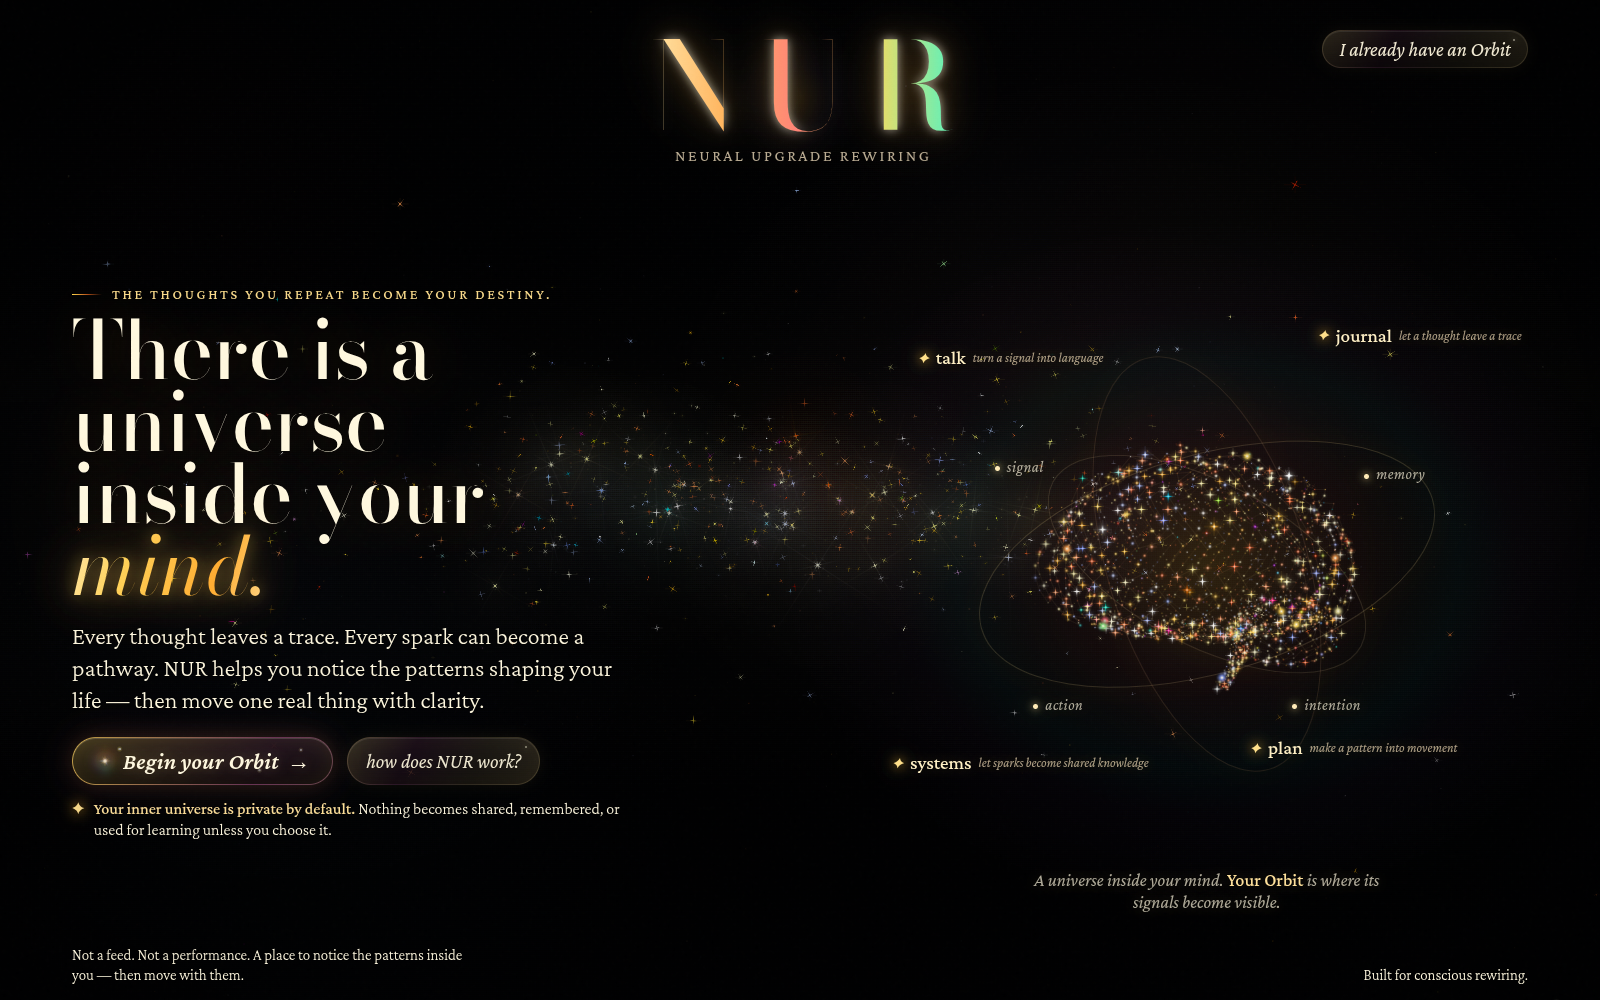
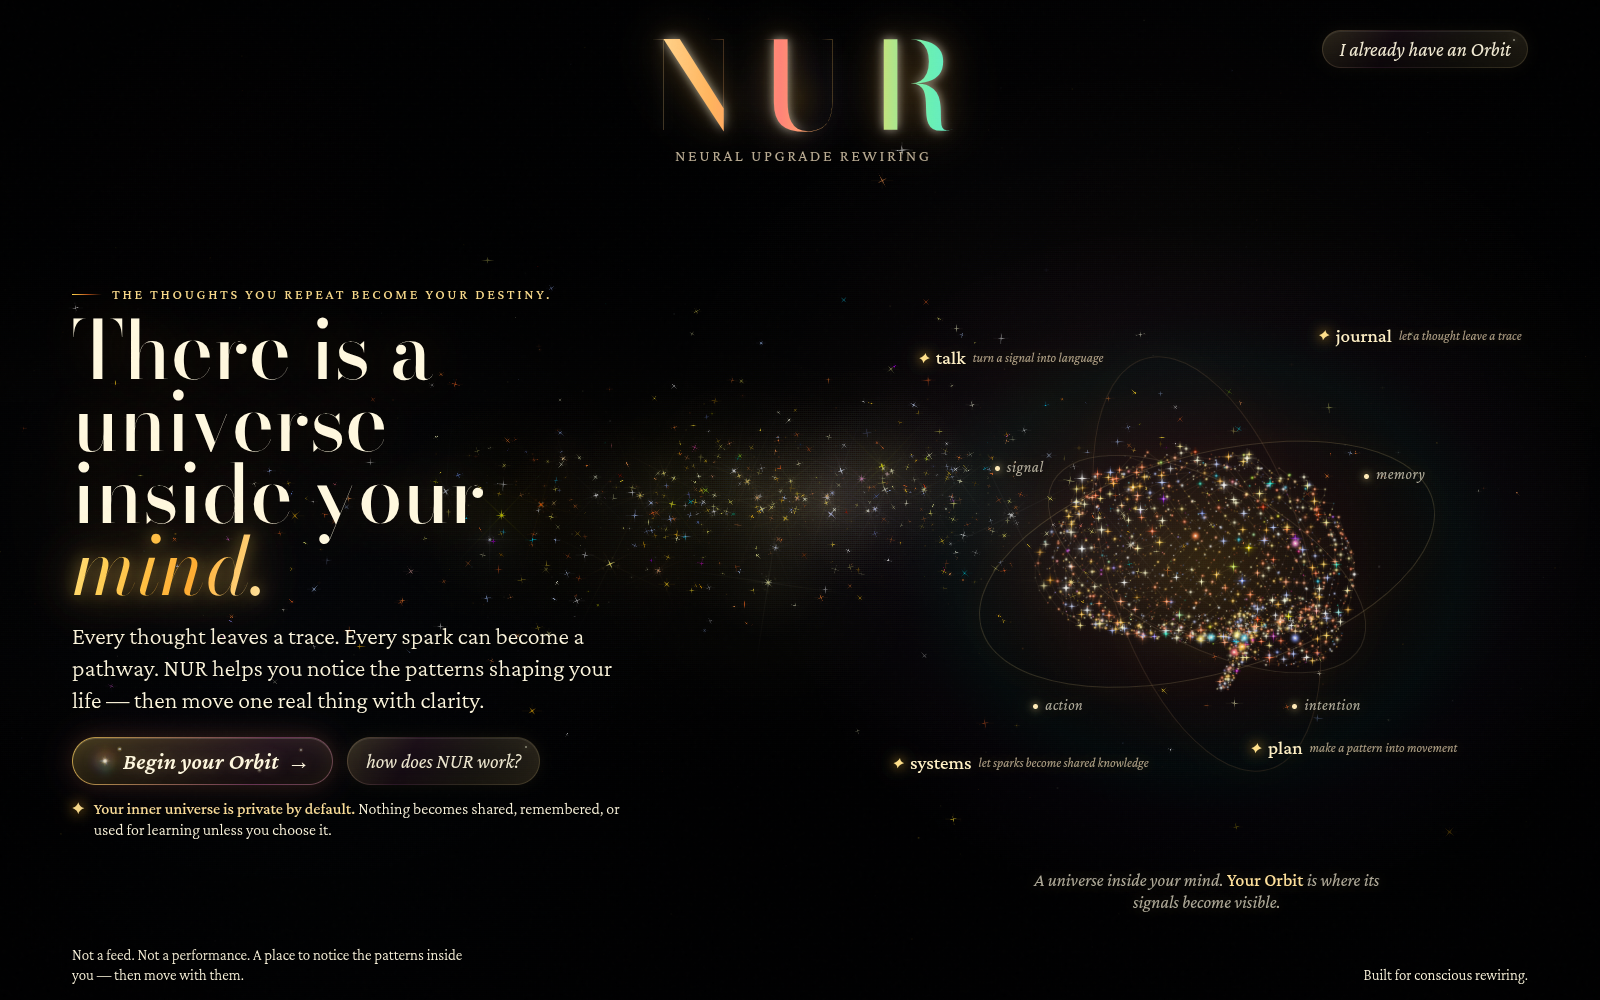
fix(v197): remove the orange wash, make panels transparent, unstack the send star
Three findings, and the first explains why every previous background fix missed.

The universe read warm brown against Entry's black because of two pseudo-element
washes, which an inline style cannot reach and a background-color rule does not
touch:

  body::before            radial-gradient(..., rgba(255, 112, 24, .094))
  #nur-front-v61::before  radial-gradient(..., rgba(255, 146, 45, .035))

A near-10% orange radial across the whole viewport. Entry has no equivalent
layer, so the two stages could not match while these painted. Both removed.

Panels were tinted sheets: the Talk chamber read blue-grey, the Systems shell
warm. They are transparent now, with a gold rim and a light blur. A translucent
panel that carries its own colour is a sheet laid over the sky, which is the
opposite of stars being visible behind and through the interface.

The send control's star sat on top of the "S". The seal stylesheet pins it with
`position: absolute` so it can centre inside icon-only controls, so the flex gap
separated nothing. Inside this one control it returns to normal flow, and the
button widens to 152px.

Verified in the running interface: Talk and Systems on pure black with the star
field visible through the panels.

web unit 65/65.

diff --git a/apps/web/src/styles/v197-holographic.css b/apps/web/src/styles/v197-holographic.css
@@ -530,3 +530,125 @@ canvas#space3d {
   mix-blend-mode: normal !important;
   isolation: isolate;
 }
+
+/* ── 8. Panels are glass, not tinted sheets ─────────────────────────────────
+   The founder's captures show the Talk chamber reading blue-grey and the
+   Systems shell reading warm brown, against an Entry page that is essentially
+   pure black. Both are panel fills, not the page background — the background
+   already matches.
+
+   Panels are transparent now. A translucent panel that carries its own colour
+   is a sheet laid over the sky; the only thing that should separate a panel
+   from the void is its rim and its blur. This is what "stars visible behind and
+   through the panels" actually requires. */
+body.universe-edition .nur-panel,
+body.universe-edition .talk-chamber,
+body.universe-edition .talk-stream,
+body.universe-edition .journal-pad,
+body.universe-edition .universe-card,
+body.universe-edition .universe-map-panel,
+body.universe-edition .universe-insight-panel,
+body.universe-edition .context-rail-card,
+body.universe-edition .v172-context-card,
+body.universe-edition .clean-audit-card,
+body.universe-edition .universe-page-shell,
+body.universe-edition .talk-composer {
+  background: transparent !important;
+  background-color: transparent !important;
+  background-image: none !important;
+  backdrop-filter: blur(3px) saturate(1.02);
+}
+
+/* The rim is what defines the panel now, so it carries the whole read. Gold,
+   the same family Entry uses for its own edges. */
+body.universe-edition .nur-panel,
+body.universe-edition .talk-chamber,
+body.universe-edition .journal-pad,
+body.universe-edition .universe-card,
+body.universe-edition .universe-map-panel,
+body.universe-edition .context-rail-card {
+  border-color: rgba(248, 214, 140, 0.16) !important;
+}
+
+/* ── 9. Send control: the star and the word stop colliding ──────────────────
+   Measured 132x46 with a 10px gap declared, but the star seal is positioned
+   absolutely by an earlier rule, so the gap separated nothing and the glyph sat
+   on top of the S. It is a flex item here, in normal flow, so the gap applies. */
+body.universe-edition .thought-send-button.send-holo-pill,
+body.universe-edition .composer-action--send,
+body.universe-edition .send-button.send-holo-pill {
+  display: inline-flex !important;
+  align-items: center !important;
+  justify-content: center !important;
+  gap: 12px !important;
+  min-width: 152px !important;
+  width: auto !important;
+  padding: 0 28px !important;
+  min-height: 46px !important;
+  white-space: nowrap !important;
+}
+
+body.universe-edition .thought-send-button .nur-star-seal,
+body.universe-edition .composer-action--send .nur-star-seal,
+body.universe-edition .send-button .nur-star-seal,
+body.universe-edition .thought-send-button > i,
+body.universe-edition .send-holo-pill > i {
+  position: static !important;
+  transform: none !important;
+  inset: auto !important;
+  margin: 0 !important;
+  flex: 0 0 auto !important;
+  order: 0 !important;
+}
+
+body.universe-edition .send-holo-pill__label {
+  order: 1 !important;
+  flex: 0 0 auto !important;
+  letter-spacing: 0.1em !important;
+}
+
+/* The seal stylesheet pins the star with `position:absolute` so it can sit
+   centred inside icon-only controls. Inside the send pill it therefore landed on
+   top of the "S". Within this one control it returns to normal flow, where the
+   flex gap above actually separates it from the word. */
+body.universe-edition .send-holo-pill .nur-star-seal,
+body.universe-edition .send-holo-pill i.nur-star-seal,
+body.universe-edition .thought-send-button .nur-star-seal,
+body.universe-edition .thought-send-button i,
+body.universe-edition .send-holo-pill > i {
+  position: relative !important;
+  top: auto !important;
+  left: auto !important;
+  right: auto !important;
+  bottom: auto !important;
+  transform: none !important;
+  translate: none !important;
+  margin: 0 !important;
+  flex: 0 0 auto !important;
+}
+
+/* ── 10. The orange wash behind everything ─────────────────────────────────
+   This is what actually made the universe read warm brown against Entry's
+   black, and it is why every fix aimed at background-color missed: it is on
+   pseudo-elements, which an inline style cannot reach.
+
+     body::before             radial-gradient(..., rgba(255, 112, 24, .094))
+     #nur-front-v61::before   radial-gradient(..., rgba(255, 146, 45, .035))
+
+   A near-10% orange radial across the whole viewport. Entry has no equivalent
+   layer, so the two stages could never match while these were painting. Both
+   are removed; the star field and the gold rims carry the warmth now, which is
+   how Entry does it. */
+body.universe-edition::before,
+body.universe-edition::after,
+body.universe-edition #nur-front-v61::before,
+body.universe-edition #nur-front-v61::after,
+body.universe-edition .nur-shell::before,
+body.universe-edition .nur-shell::after,
+body.universe-edition .nur-viewport::before,
+body.universe-edition .nur-viewport::after {
+  background: none !important;
+  background-image: none !important;
+  background-color: transparent !important;
+  opacity: 0 !important;
+}
